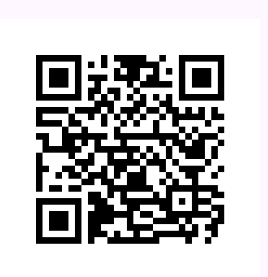
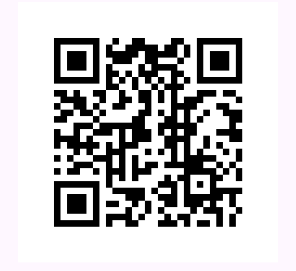
Minor fix to layout for fragment containers, and revised qr code for demo; attach event info to successful qr scan

diff --git a/SeQR/app/src/main/java/com/example/seqr/MainActivity.java b/SeQR/app/src/main/java/com/example/seqr/MainActivity.java
@@ -67,7 +67,7 @@ public class MainActivity extends AppCompatActivity {
         CheckBox enableGeoLocationCheckbox = findViewById(R.id.enable_geo_location_checkbox);
         ProfileController profileController = new ProfileController();
 
-        profileController.getProfileUsernameByDeviceId(uuid, new OnCompleteListener<DocumentSnapshot>() {
+        /*profileController.getProfileUsernameByDeviceId(uuid, new OnCompleteListener<DocumentSnapshot>() {
             @Override
             public void onComplete(@NonNull Task<DocumentSnapshot> task) {
                 if(task.isSuccessful()){
@@ -79,10 +79,10 @@ public class MainActivity extends AppCompatActivity {
                     }
                 }
             }
-        });
+        });*/
 
         // Add an event listener to the checkbox
-        enableGeoLocationCheckbox.setOnCheckedChangeListener(new CompoundButton.OnCheckedChangeListener() {
+        /*enableGeoLocationCheckbox.setOnCheckedChangeListener(new CompoundButton.OnCheckedChangeListener() {
             @Override
             public void onCheckedChanged(CompoundButton buttonView, boolean isChecked) {
                 // Update the geolocation setting in Firestore for the current user
@@ -92,14 +92,14 @@ public class MainActivity extends AppCompatActivity {
                     profileController.updateGeoLocation(uuid, isChecked);
                 }
             }
-        });
+        });*/
         Button adminButton = findViewById(R.id.admin_button);
 
         profileImageView = findViewById(R.id.profile_picture);
 
         String path = Uri.encode("ProfilePictures/" + uuid + ".jpg");
         String imageUrl = "https://firebasestorage.googleapis.com/v0/b/seqr-177ac.appspot.com/o/" + path + "?alt=media";
-        Picasso.get().load(imageUrl).into(profileImageView);
+        //Picasso.get().load(imageUrl).into(profileImageView);
 
 
 

diff --git a/SeQR/app/src/main/java/com/example/seqr/AttendeeFragment.java b/SeQR/app/src/main/java/com/example/seqr/AttendeeFragment.java
@@ -65,7 +65,8 @@ public class AttendeeFragment extends Fragment {
                                 if (eventID.equals(event.getEventID())) {
                                     // QR code is valid
                                     Log.d(DBTAG, "QR Code is valid for event: " + event.getEventName());
-                                    launchSuccess();
+                                    launchSuccess(eventID);
+                                    return;
                                 }
                             }
                         }
@@ -89,10 +90,13 @@ public class AttendeeFragment extends Fragment {
         });
     }
 
-    public void launchSuccess() {
+    public void launchSuccess(String QRData) {
         Log.d(DBTAG, "launch success method reached. Firing the event info window: ");
         FragmentManager parent = getParentFragmentManager();
-        Fragment eventInfo = new A_Test_Fragment();
+        Fragment eventInfo = new EventInfoFragment();
+        Bundle passQR = new Bundle();
+        passQR.putString("eventId", QRData);
+        eventInfo.setArguments(passQR);
         parent.beginTransaction().replace(R.id.fragment_container, eventInfo).commit();
     }
 

diff --git a/SeQR/app/src/main/java/com/example/seqr/EventInfoFragment.java b/SeQR/app/src/main/java/com/example/seqr/EventInfoFragment.java
@@ -50,9 +50,9 @@ public class EventInfoFragment extends Fragment {
                     eventTime.setText(event.getEventStartTime());
                     eventCapacity.setText(String.valueOf(event.getMaxCapacity()));
                     eventDescription.setText(event.getEventDesc());
-
-                    String photoUri = "EventPosters/" + eventId + ".jpg"; // Adjust if necessary
-                    Picasso.get().load(Uri.parse(photoUri)).into(eventPhoto);
+                    String path = Uri.encode("EventPosters/" + eventId + ".jpg");
+                    String photoUri = "https://firebasestorage.googleapis.com/v0/b/seqr-177ac.appspot.com/o/" + path + "?alt=media";
+                    Picasso.get().load(photoUri).into(eventPhoto);
                 }else{
                     //for part 4 add a dialog that says event does not exist and redirect to main page
                     Log.d("Debug","There wasn't a document with that id");
